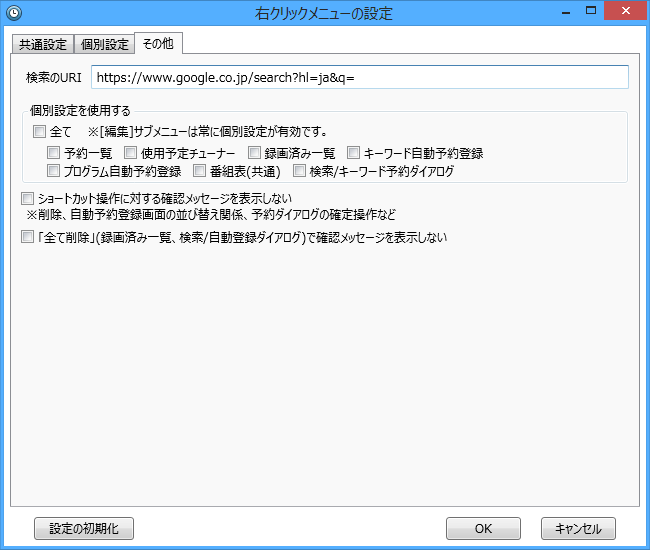
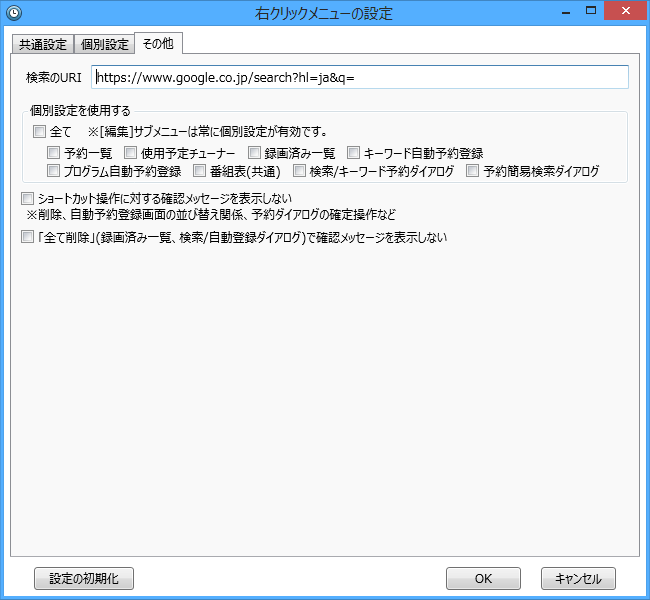
update

Changed region(s): [[0.0, 0.0, 1.0, 0.4636], [0.0, 0.8964, 0.9846, 1.0]]

diff --git a/index.html b/index.html
@@ -75,7 +75,7 @@ img {
 
 <h2 style="margin-top: 0em;">リポジトリに戻る</h2>
 <ul>
-<li><a href="https://github.com/tkntrec/EDCB">tkntrec@EDCB</a> (my-build-s : c5e1602 / 2016.06.24)</li>
+<li><a href="https://github.com/tkntrec/EDCB">tkntrec@EDCB</a> (my-build-s : c2cd15c / 2016.07.19)</li>
 <li><a href="https://github.com/tkntrec/EDCB_PrtSc">この画面一覧のリポジトリ</a></li>
 </ul>
 
@@ -121,6 +121,7 @@ img {
 <li><a href="#i14">検索・キーワード予約ダイアログ - 検索設定1</a></li>
 <li><a href="#i15">検索・キーワード予約ダイアログ - 検索設定2</a></li>
 <li><a href="#i16">検索・キーワード予約ダイアログ - 録画設定</a></li>
+<li><a href="#i161">予約簡易検索ダイアログ</a></li>
 <li><a href="#i17">プログラム予約ダイアログ</a></li>
 <li><a href="#i18">接続ダイアログ</a></li>
 <li><a href="#i19">情報通知ログ</a></li>
@@ -135,6 +136,7 @@ img {
 <div><a href="./img/ダイアログ_検索・キーワード予約_検索設定1.png"><img id="i14" alt="img" src="./img/ダイアログ_検索・キーワード予約_検索設定1.png"/></a></div>
 <div><a href="./img/ダイアログ_検索・キーワード予約_検索設定2.png"><img id="i15" alt="img" src="./img/ダイアログ_検索・キーワード予約_検索設定2.png"/></a></div>
 <div><a href="./img/ダイアログ_検索・キーワード予約_録画設定.png"><img id="i16" alt="img" src="./img/ダイアログ_検索・キーワード予約_録画設定.png"/></a></div>
+<div><a href="./img/ダイアログ_予約簡易検索.png"><img id="i161" alt="img" src="./img/ダイアログ_予約簡易検索.png"/></a></div>
 <div><a href="./img/ダイアログ_プログラム予約.png"><img id="i17" alt="img" src="./img/ダイアログ_プログラム予約.png"/></a></div>
 <div><a href="./img/ダイアログ_接続.png"><img id="i18" alt="img" src="./img/ダイアログ_接続.png"/></a></div>
 <div><a href="./img/ダイアログ_情報通知ログ.png"><img id="i19" alt="img" src="./img/ダイアログ_情報通知ログ.png"/></a></div>
